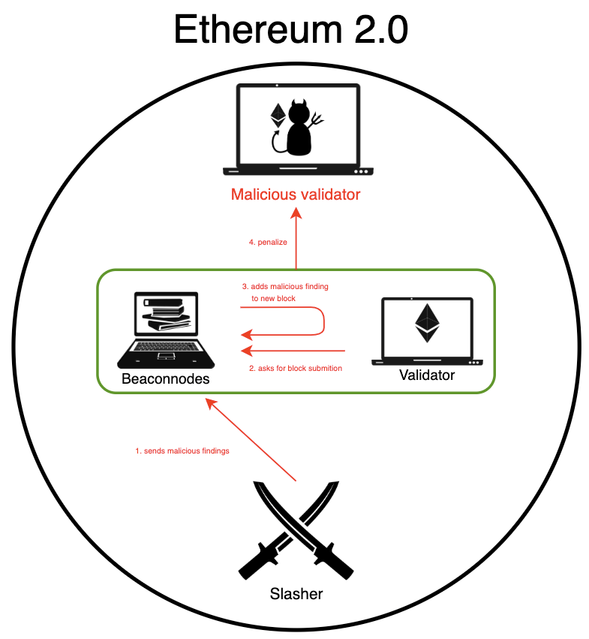
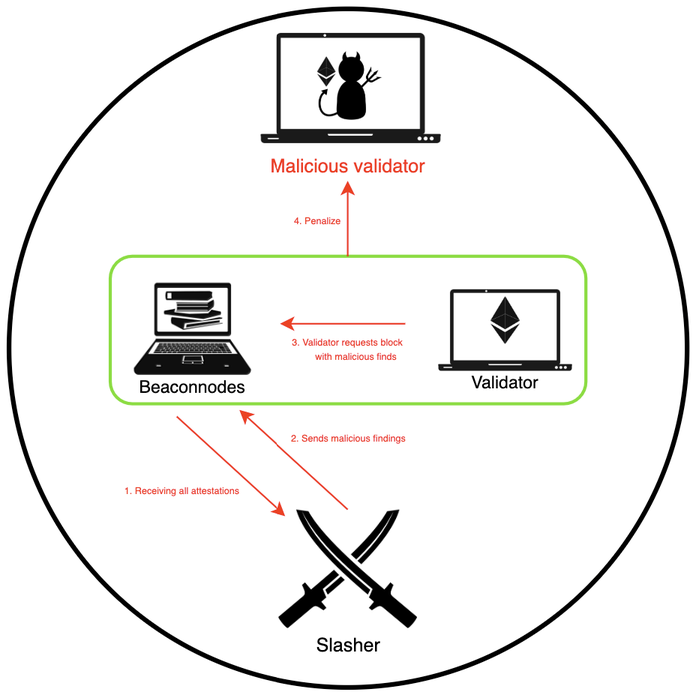
GitBook: [master] 18 pages and 2 assets modified

diff --git a/glossary.md b/glossary.md
@@ -32,20 +32,24 @@ Represents the number of slots and takes approximately **6.4 minutes** and consi
 
 Each validator needs to deposit 32 ETH into the validator-deposit-contract on the ETH1 chain and requires the user to run a validator node. Their job is to propose blocks and attestations.
 
-## **Validator Lifecycle:**
+## **Validator Lifecycle**
 
-**1. Deposited:** 
+**1. Deposited** 
 
 * 32 ETH has been deposited to the ETH1 deposit-contract and this state will be kept for around 7 hours. This offers security in case the ETH1 chain gets attacked.
 
-**2. Pending: Waiting for activation on ETH2**
+**2. Pending**   
+  
+Waiting for activation on ETH2
 
 * Until 327680 active validators in the network, **4 validators can be activated per epoch** \(900 per day\). After that 5 can be activated per epoch and the number of validators **that can be activated increases by 1 for every 64k additional active  validators**. 
 * Amount of activations scales with the amount of active validators 
 
   and the limit is the active validator set divided by 64.000
 
-**3. Active Validator** Currently attesting and proposing blocks **\(=Block proposer\)**.
+**3. Active Validator**   
+  
+Currently attesting and proposing blocks **\(=block proposer\)**.
 
 The validator will stay active until:
 
@@ -53,9 +57,13 @@ The validator will stay active until:
 * voluntary exit
 * it gets slashed
 
-**4. Slashing Validator:** The Validator has been malicious
+**4. Slashing Validator**   
+  
+The Validator has been malicious and will be slashed and kicked out of the system
 
-![slashed](https://user-images.githubusercontent.com/26490734/73463604-d44cd700-437d-11ea-9c11-a2fed18fdc6d.png)
+> Clarification -   
+> A _**Penalty**_ is a negative reward \(e.g. for going offline\).   
+> A _**Slashing**_ is a large penalty \(≥ 1/32 of balance at stake**\)** and a forceful exit ... **. - Justin Drake**
 
 **5. Exiting Validator**
 
@@ -66,6 +74,21 @@ The validator will stay active until:
 
 A validator which has been chosen by the beacon chain to propose the next block.   
 There is only one per slot.
+
+## Slasher 
+
+The slasher's purpose is to find malicious validators in the Ethereum 2.0 network and report slashable offenses to the beacon-node. 
+
+#### **Slashable offenses**
+
+**Attestation violation**
+
+* **Double voting:** An **attester** signs two different attestations **in one epoch.**
+* **Surround votes:** An **attester** and sign an attestation that surrounds another one.
+
+#### Proposer violation
+
+* **Double block proposal:** A **block** **proposer** signs two different blocks for the same slot.
 
 ## Attestations
 

diff --git a/tutorial-eth2-multiclient/prysm-client/slasher-windows-macos--prysm.md b/tutorial-eth2-multiclient/prysm-client/slasher-windows-macos--prysm.md
@@ -2,13 +2,22 @@
 
 ## General
 
-The slasher's purpose is to find malicious validators and report slashable offenses to a validator, who then needs to include that information into its block proposal.  
-****  
-**Slashable offenses**
-
-* **Double voting:** An **attester** signs two different attestations which have the same target.
-* **Surround votes:** An **attester** and sign an attestation that surrounds another one.
-* **Double block proposal:** A **block** **proposer** signs two different blocks for the same slot.
+The slasher's purpose is to find malicious validators **in the Ethereum 2.0 network** and report slashable offenses to the beacon-node.  
+****
 
 ![](../../.gitbook/assets/image%20%2869%29.png)
+
+#### 
+
+## How does the slasher work?
+
+The s**lasher is its own entity** which allows the user to run the slasher independently without the need of a local beaconnode or validator.  
+  
+To find malicious activity by validators, the slashers receives all attestations from beacon-nodes and iterates through them until a **slashable offense** has been found.   
+The slasher then sends proof to beacon-nodes which includes 
+
+## Run a slasher
+
+Make sure your **beaconnode** is **in sync** and running along with a **validator**.   
+If you need to make up for it, please look [here for windows](https://kb.beaconcha.in/tutorial-eth2-multiclient/prysm-client/windows-prysm/script-beaconnode-and-validator) and [here for macOS](https://kb.beaconcha.in/tutorial-eth2-multiclient/prysm-client/macos-prysm/run-with-macos-using-prysm.sh).
 
